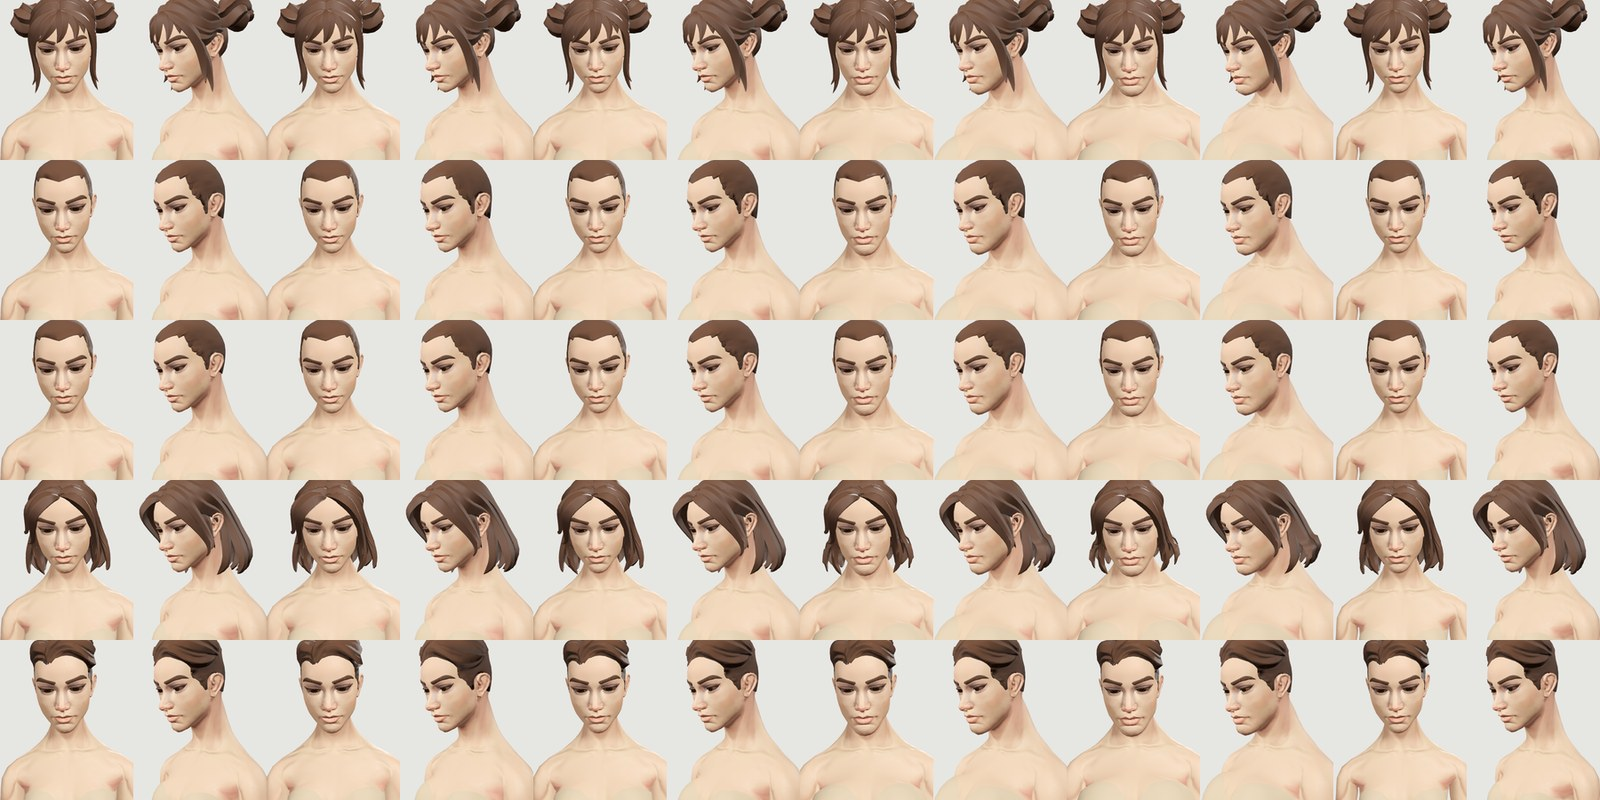
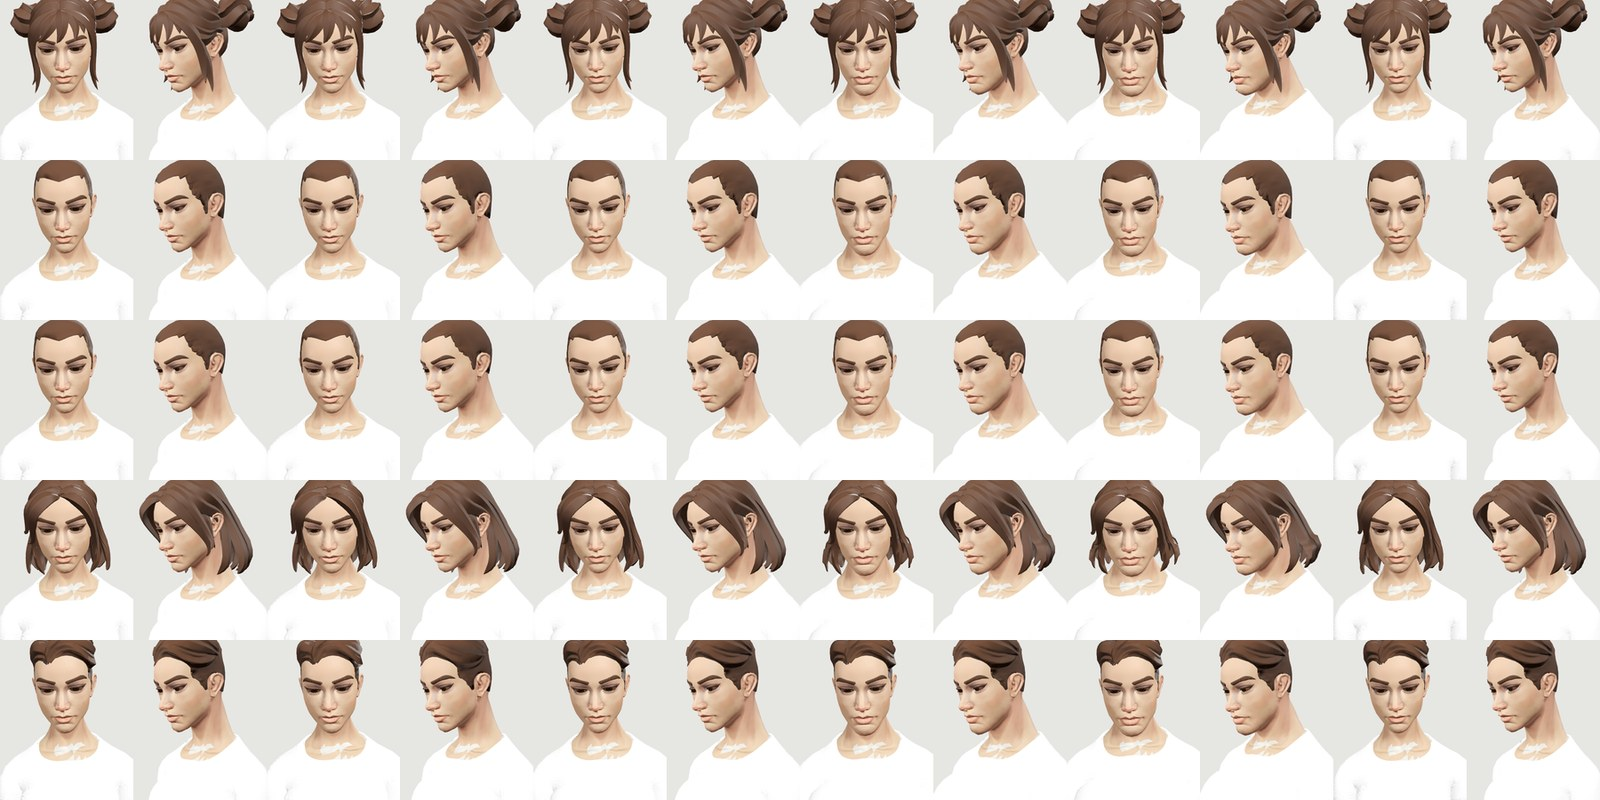
docs(chars-ubc): design/godot-ubc-characters.md; final hair and build sheets
The rig mapping, the builds, the hair matches (and what the free kit lacks),
the outfits and their stand-ins, the switch and its flag, checks, packs,
open questions. Evidence re-rendered after the forced reimport.

Claude-Session: https://claude.ai/code/session_01N4y2z6Xq8372SRAcq8t9bR

diff --git a/design/godot-ubc-characters.md b/design/godot-ubc-characters.md
@@ -1,0 +1,136 @@
+# The UBC characters: Quaternius's Universal Base Characters as the game's bodies (workstream CHARS-UBC, Nov 4 2026)
+
+**Asked for (Steven, Nov 4, 18:00, through the director):** use Quaternius's Universal Base Characters
+(Standard, free, **CC0**) for the five main characters and for the character editor. The free kit has
+only the two Superhero bodies (very muscular): reshape them in Blender into the needed builds as shape
+keys driven by the editor's contour sliders; use the six free hairstyles (+ eyebrows); model the outfits
+for the five looks; switch the editor and the presets to the new bodies, keeping the MakeHuman (B1)
+bodies behind a flag until Steven signs off. Approved with it: the five looks, the rebuild, a face pass
+for the male, "closing the menu keeps changes" (`design/godot-character-editor.md` CHAR-EDITOR).
+Branch `ws/chars-ubc` from `ws/char-editor` 80deb4f9.
+
+Source: `/home/claude/assets/New Character Templates 11.4/Universal Base Characters[Standard]/` (outside
+the repo). The repo ships only what the game uses: `models/ubc/` (converted glTF + .bin, the textures it
+needs, **`LICENSE-UBC.txt`**: the kit's CC0 text and the credit "Quaternius, https://quaternius.com").
+54 MB.
+
+## Rebuild (headless, from the Godot project folder; one Blender / Godot at a time)
+```bash
+B=/path/to/python-with-bpy            # pip install bpy (5.2.x, Python 3.13)
+$B tools/blender/ubc/build_body.py male female          # bodies -> models/ubc/body_<sex>.gltf (+ .scratch/ubc/*.blend)
+$B tools/blender/ubc/build_pieces.py hair garments      # hair, beard, garments -> models/ubc/<piece>_<sex>.gltf, pieces.json
+GODOT=godot tools/blender/ubc/reimport.sh               # forces the reimport (Godot hashes the .gltf, not its .bin) + the manifest
+```
+`tools/chars/ubc_manifest.gd` writes `models/ubc/ubc.json` in the shape of B1's `characters.json`, so
+`CharBody`, `CharPreset`, `CharFit` and the editor run on either set.
+
+## 1. The rig: our clips play unchanged
+- The kit's skeleton is UE-mannequin style (`pelvis`, `spine_01..03`, `clavicle_l`, `upperarm_l`, ...,
+  65 bones). **Renamed to our Mixamo names** in Blender (`ubc_common.mixamo_name`: `pelvis` → `mixamorig_Hips`,
+  `spine_01/02/03` → `Spine/Spine1/Spine2`, `clavicle` → `Shoulder`, `upperarm` → `Arm`, `lowerarm` →
+  `ForeArm`, fingers `index_01..04` → `HandIndex1..4`, `thigh/calf/foot/ball/ball_leaf` →
+  `UpLeg/Leg/Foot/ToeBase/Toe_End`), and the kit's `root` bone removed (its weights go to the hips) so the
+  hips are the root as in Mixamo. Every clip bone exists except `HeadTop_End` (unused by the clips' motion).
+- The kit's rest is already a **T-pose** like Ch01's, so no re-posing: `NpcRig` retargets the different
+  bone rolls (64 fix-ups, as it does for every Mixamo skin) and every clip in `npc/anims.res` plays.
+- `NpcBody.set_skin` roots the AnimationPlayer at the skeleton's parent when the skeleton is one node down
+  (Blender's glTF puts it at `Armature/Skeleton3D`); Mixamo skins and B1 bodies are unchanged.
+- Glitch found and fixed: glTF splits vertices at UV seams; unmerged, every smoothing opened cracks along
+  the seams (white lines down the legs). The import merges them.
+
+## 2. Builds (shape keys) and the face pass
+- **The default is toned down** (Steven: a normal default): the torso and limbs are Laplacian-smoothed with
+  the broad shrink given back along the normals (90 % male, 75 % female), the normal map's broad forms
+  (the painted-in abs and pecs) kept at 25 / 40 %, the albedo's painted shading at 45 / 60 %.
+  `muscle+` brings the kit's superhero sculpt back; `muscle-` smooths further.
+- Shape keys (each `<slider>+` / `-`), all driven by the editor's contour sliders: **height** (legs and
+  torso, the head keeps its size), **weight** (build: soft volume at belly, hips, thighs, arms, neck /
+  lean), **muscle**, **shoulders**, **chest**, **bust** (female), **waist**, **belly**, **hips**, **butt**
+  (seat), **thigh**, **calf**, **arms**, **neck_length**, **head_size**; the face pass: **jaw**, **chin**.
+  No age or youth sliders: the UBC set has **no child bodies** (CharBody drops a slider key its manifest
+  doesn't have, so a youth key can't make one).
+- Joints follow the flesh for the structural shapes (height, shoulders, neck length): measured per bone as
+  the mean displacement of the skin around the joint (`ubc_manifest.gd`), so a tall body's knees and hips
+  are where its legs bend.
+- Shape presets: female **Slim / Average / Curvy / Plus**, male **Slim / Average / Athletic / Big & Tall**
+  (+ QA extremes heavy-set 52, skinny 74).
+- **The male face** reads as an adult man as the kit made it (strong brow and jaw), unlike the MakeHuman
+  male; the face pass adds jaw width and chin length sliders. No further face sculpt was needed for the
+  look; Steven to say.
+- Skin: the kit's light texture divided by its own mean skin colour (near-white, so the material tint is
+  the tone, as on B1); its painted underwear stays dark fabric, and the region shader's base layer paints
+  chest, pelvis and crotch as fabric too (the clothed rule: nothing bare even in a bug). Eyes greyed (the
+  iris tint), eyebrows greyed (the hair tint). Region ids per vertex in the second UV map.
+- Evidence: `production/qa/evidence/chars-ubc-builds-unbaked.jpg` (the builds in the default tee and
+  jeans, front and side, idle pose through NpcRig).
+
+## 3. Hair
+- The kit's **six** styles: **Long** (shoulder length), **Buns**, **BuzzedFemale** (short crop), **Buzzed**,
+  **SimpleParted** (side part), and **Beard** (male only, an extra slot "beard"); eyebrows are on the bodies.
+- Each was modelled on one kit head (Long, Buns, BuzzedFemale on the female; Buzzed, SimpleParted, Beard
+  on the male). On the other body it is moved and scaled from that head onto this one (the head boxes),
+  then **proxy-bound**: every hair vertex is a point on a body triangle plus an offset along its normal
+  (MakeHuman's method, `ubc_common.Binding`), evaluated for every shape key, so hair follows every build,
+  head size and neck length exactly; nothing sits inside the scalp (2 mm). Rigid on the Head; at load
+  `scripts/chars/char_fit.gd` (CHAR-EDITOR) skins anything below the jaw onto the torso and keeps it clear
+  of the shirt. Hair cards are drawn alpha-scissored and double-sided.
+- **The five looks' hair** (B1 ids alias to the closest UBC style in `CharPreset.normalize`):
+  shoulder → **Long**; puffs → **Buns** (closest; not puffs); crew → **Buzzed**; side part →
+  **SimpleParted**; long straight → **Long** (shoulder length: **no long-straight style in the free kit**).
+  No match in the free kit for: perm, braids, puffs proper, bowl, balding, elderly set, long straight
+  (each aliased to the nearest: see `tools/blender/ubc/build_pieces.py` `ALIASES`).
+- Evidence: `chars-ubc-hair-female-unbaked.jpg`, `chars-ubc-hair-male-unbaked.jpg` (every style on every
+  build, front and 3/4: rows Buns, Buzzed, BuzzedFemale, Long, SimpleParted; columns Slim, Average,
+  Curvy / Athletic, Plus / Big & Tall, heavy-set, skinny).
+
+## 4. Outfits for the five looks
+`tools/blender/ubc/garments_ubc.py`, both bodies: **tee, polo, sweatshirt, open flannel, store vest
+(blank name tag), store apron (bib + skirt panel, blank tag), jeans, khakis, slacks, sneakers, watch,
+backward cap, glasses**. Surface garments are cut from the body's own faces (the cut straightened and the
+hem turned in), offset by their layer's gap + ease (tops worn over the bottoms, outerwear over both), and
+proxy-bound like the hair (exact on every build); cylindrical fabric UVs at a real tile size (the B1
+fabric maps); colour regions main / trim (the hem) / accent (tag, placket, sole). The cap and glasses are
+built on the head; the apron's skirt rides the hips. No brands, no words.
+- **Stand-ins** until each is made: dress shoes / boots / sandals → sneakers; button-down → polo;
+  cardigan → flannel; tank / baby tee → tee; skirt → slacks; long / short shorts → khakis; wide jeans /
+  overalls → jeans; forward cap → backward cap. Full outfits (cheer, waitress, football, coveralls) are not
+  made: a preset asking for one gets a top and a bottom (the clothed rule).
+- Evidence: `chars-ubc-five-unbaked.jpg` (the five looks, front / 3/4 / back) and
+  `chars-ubc-mall-w1-presets-unbaked.jpg` / `-phone-` (every repo preset standing in wing 1, unbaked).
+- Weak still: sneakers read as white socks (the foot's shape, no sole block); the flannel and vest are
+  close-fitting shells (no collar); the apron's skirt doesn't swing; jeans have no seams or pockets.
+
+## 5. The switch
+- `CharBody.manifest_path()`: **UBC by default** when `models/ubc/ubc.json` and the bodies are in the
+  pack; the **MakeHuman bodies** with `?chars=mh` in the address, localStorage `mall-chars-body` = `mh`,
+  Engine meta `chars_body`, or `-- --chars=mh` on a native command line. Everything above it (presets,
+  editor, avatar, attendants, NPC presets) follows the manifest.
+- The editor (CHAR-EDITOR's flow) runs unchanged on UBC: BODY shows the shape presets and the contours,
+  SKIN & HAIR the six styles, OUTFIT the new pieces and a Beard row on the male.
+  Evidence: `chars-ubc-creator-*-unbaked.jpg`, `chars-ubc-menu-main-after-unbaked.jpg`,
+  `chars-ubc-after-save-third-unbaked.jpg`, `chars-ubc-timetravel-third-unbaked.jpg`.
+- The five presets: the three attendants (`data/characters/pocket_change.json`, `sound_shop.json`,
+  `kay_bee.json`) load on UBC through the aliases (no file changed, so the MH flag still shows them as
+  before); the two player looks are `tools/qa/fixtures/char_first_five.json` (proposals, not presets).
+
+## Checks (Nov 4, native, unbaked)
+- `char_clothed_test.gd`: **CHAR CLOTHED OK (838 checks)** on UBC; with `--chars=mh` **(1632)**.
+  On UBC the flattening checks become "the base layer's regions are on the body", and the child checks
+  become "no child body can be made".
+- `char_editor_test.gd --only=unit`: **CHAR EDITOR OK (28)** on both.
+- `char_avatar_test.gd` (wing 6): **CHAR AVATAR OK (40)** on UBC: one body after save, reload, year
+  change and time travel, the portrait, the flow.
+- Looked at: builds, hair grids, the five looks, the editor, the presets in wing 1.
+- Not run: the web build. **Packs:** `tools/chars/pack_list.py` and `tools/shared_packs.py` still list
+  `models/characters/` only; the integration session must ship `models/ubc/` in the shared `chars` pack
+  (and exclude it from the wing packs). Until then a web pack without the UBC files falls back to the
+  MakeHuman bodies by itself.
+
+## Open questions for Steven
+1. The builds and their names (Slim / Average / Curvy / Plus; Slim / Average / Athletic / Big & Tall):
+   right, and how far should "Average" sit from the kit's athlete (one value, `TONE` in `build_body.py`)?
+2. Hair the free kit lacks (long straight, perm, braids, puffs): buy the kit's Source version, or model
+   them as cards on these heads?
+3. The face pass: are jaw / chin sliders enough, or should the male face be sculpted further?
+4. The stand-ins for the garments not made yet: OK until the full wardrobe, or hide those pieces?
+5. When to retire the MakeHuman bodies (the flag) and their 76 MB of files.
